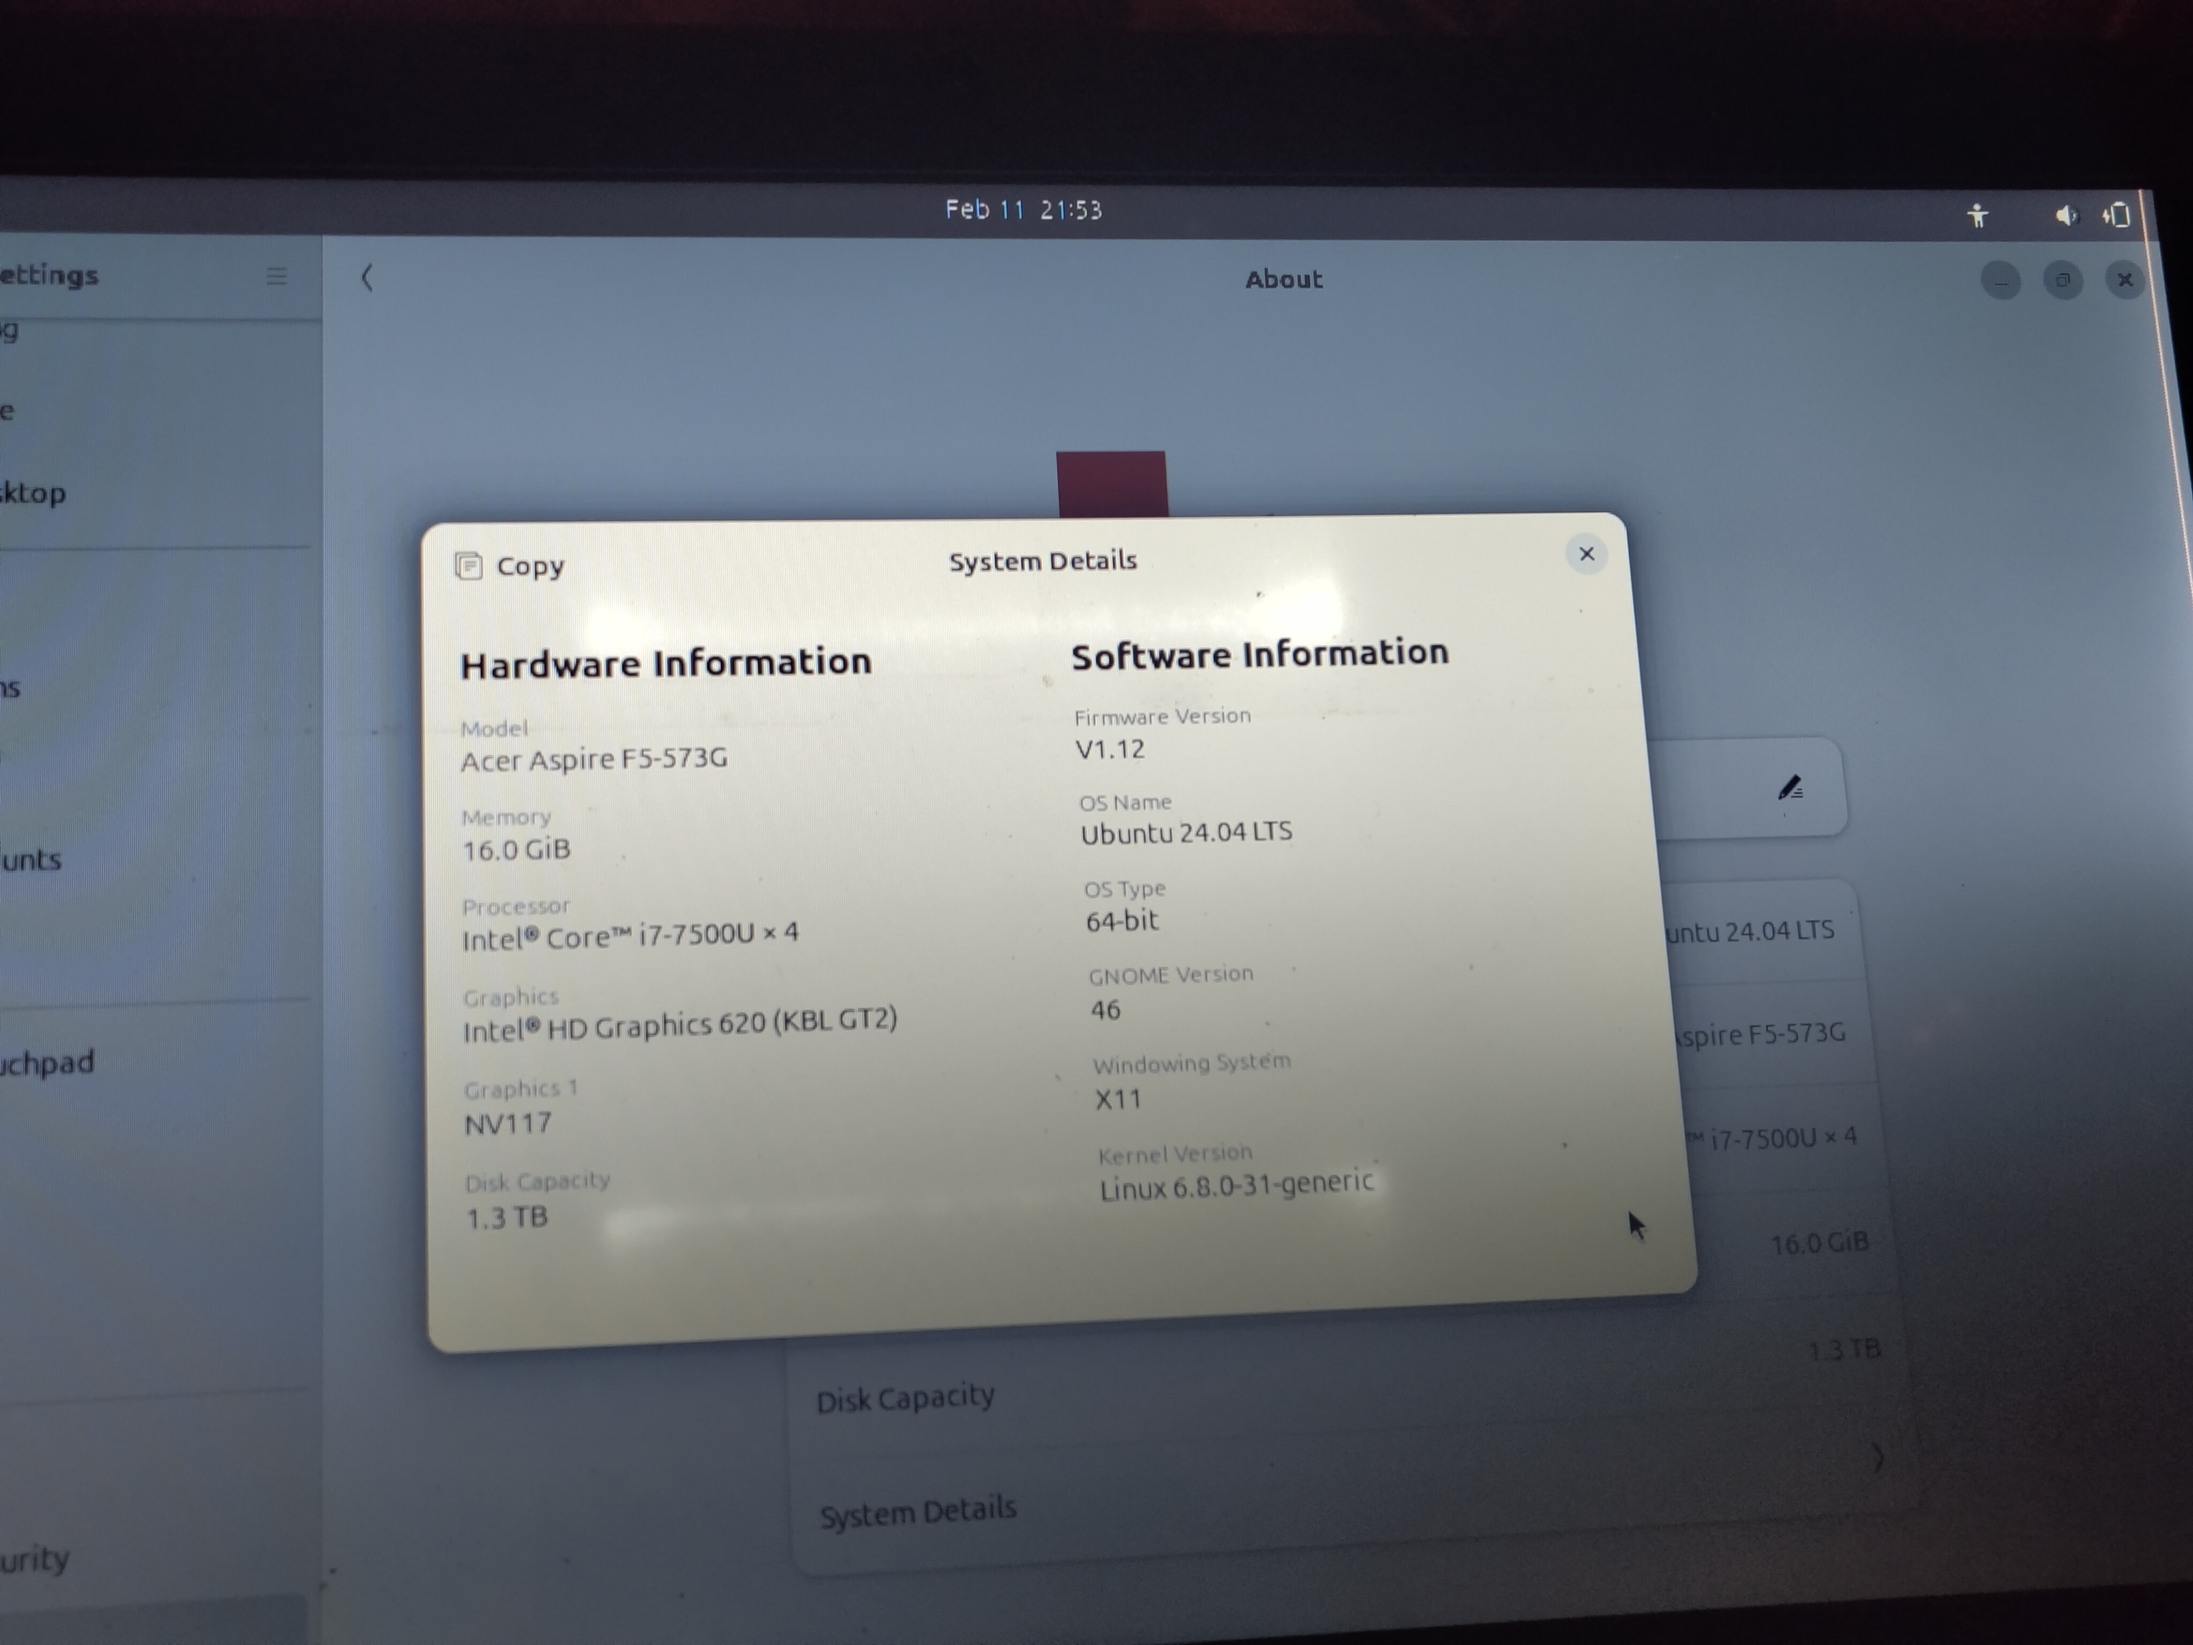
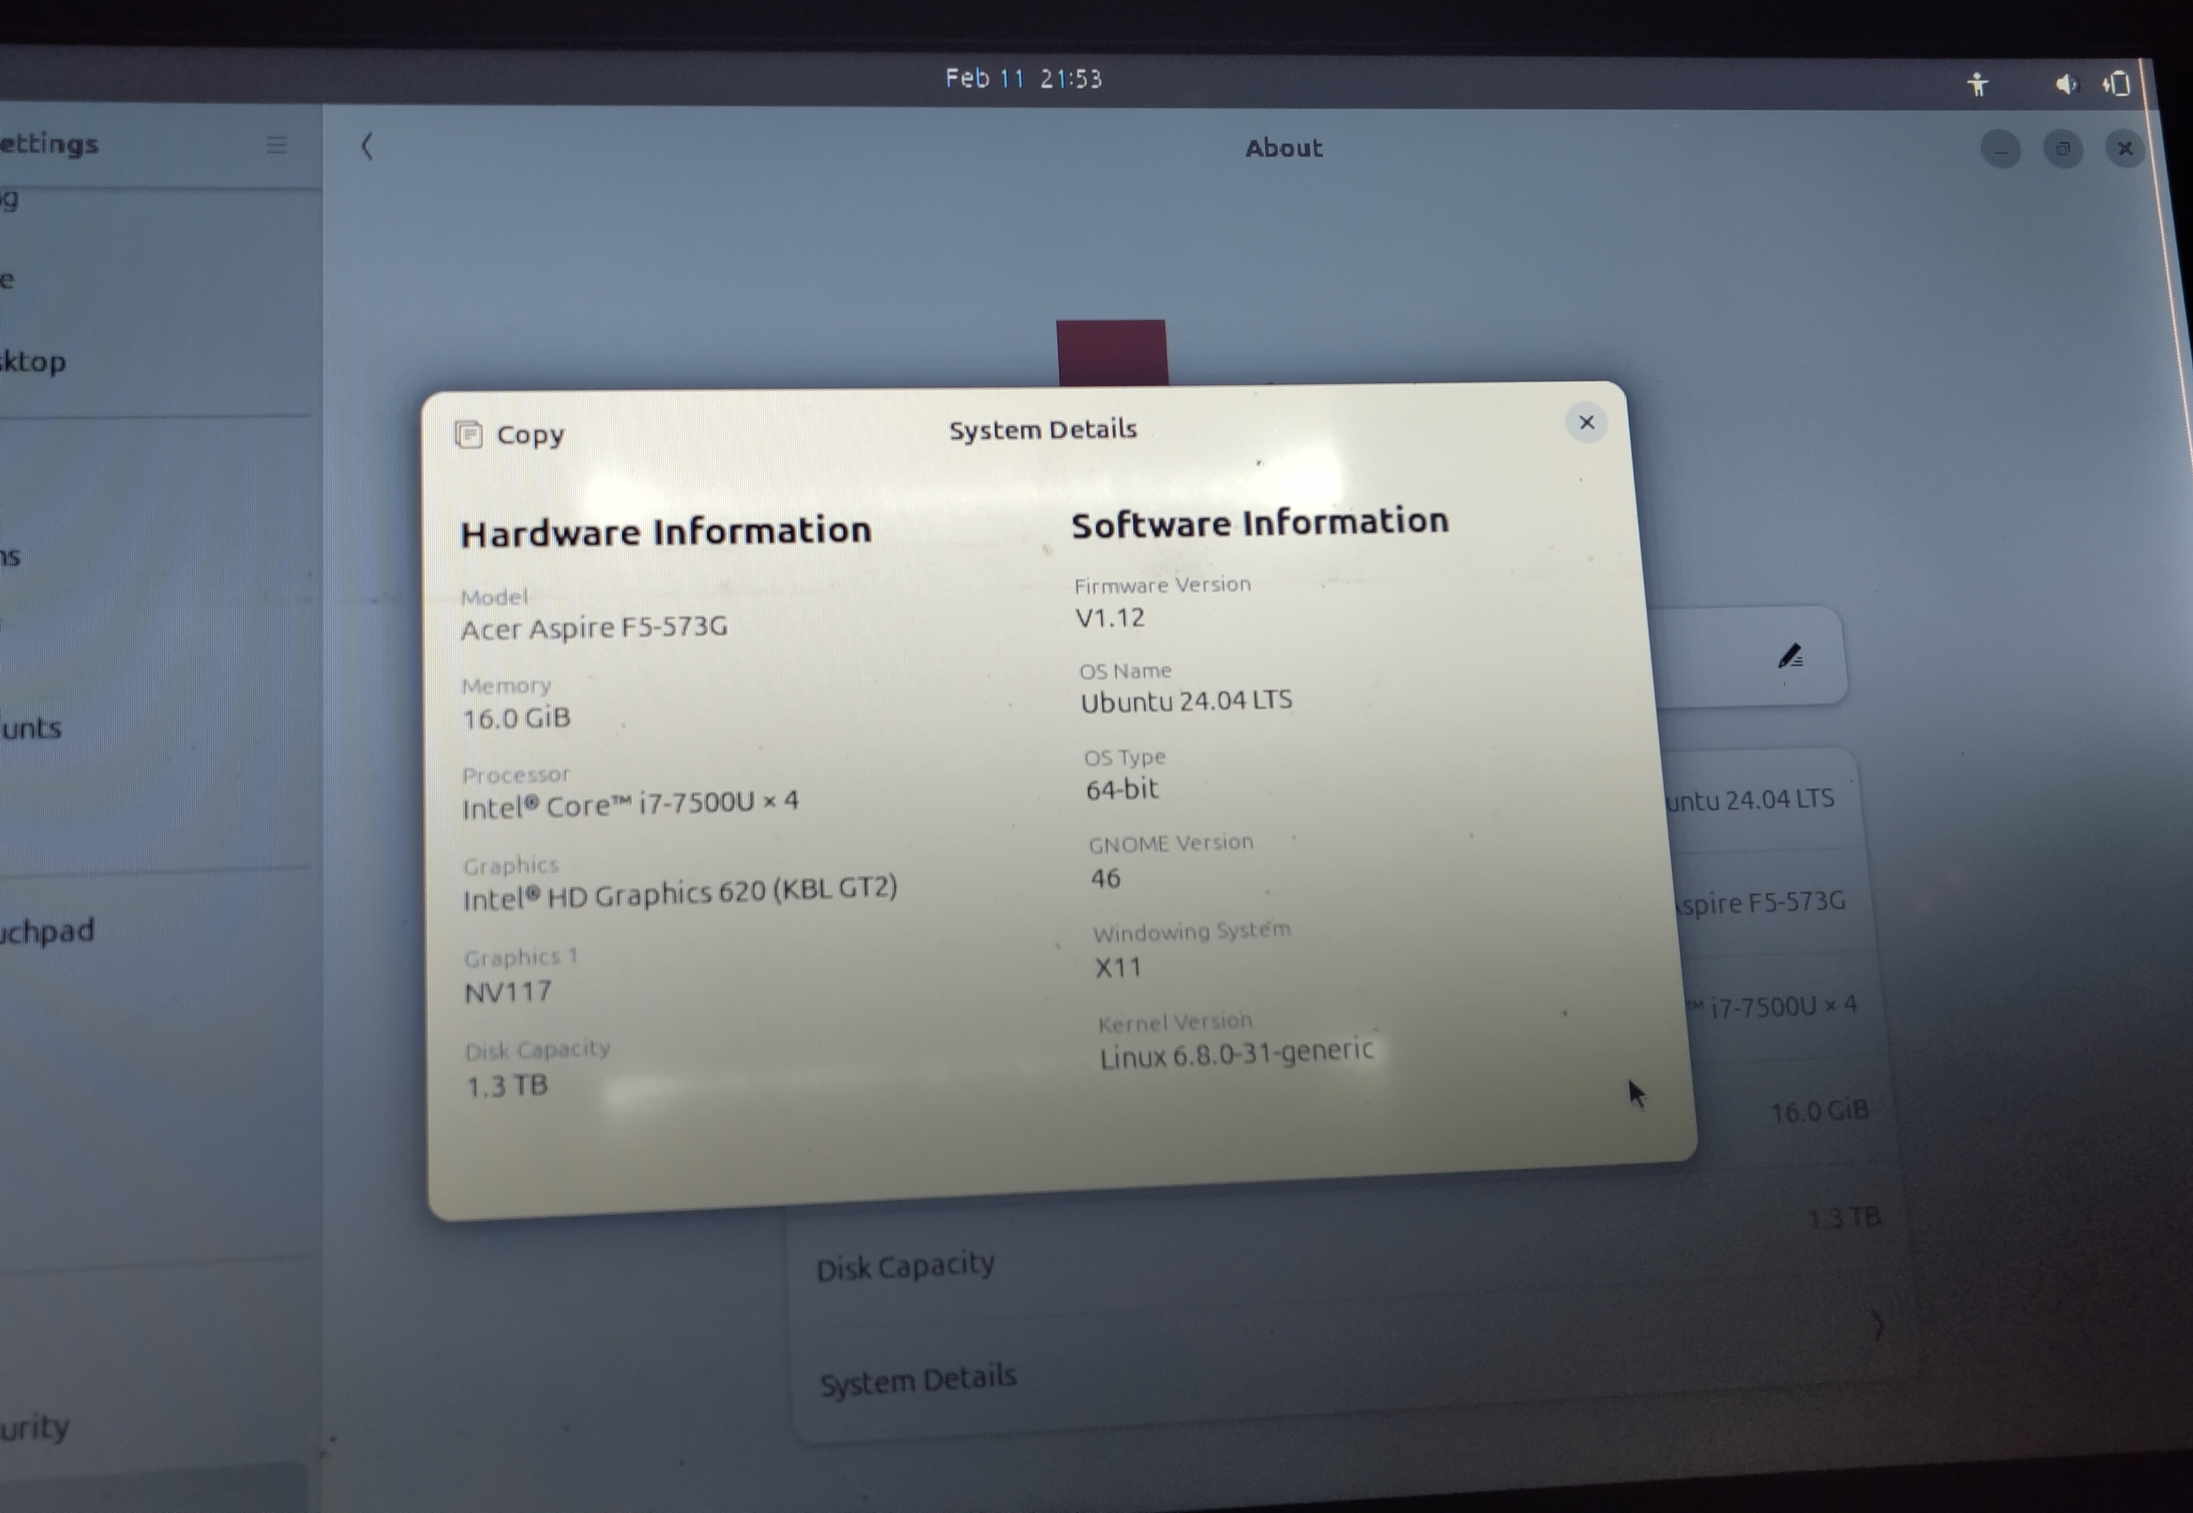
feat(all): switch to nojs theme, add placeholder pages

diff --git a/TODO.md b/TODO.md
@@ -49,6 +49,7 @@
 - <https://github.com/mrmierzejewski/hugo-theme-console>
   - Based on the console CSS framework
   - Can use this as a model for making a hugo site based off the CSS frameworks below
+  - Good figcaption shortcut thingy for markdown images
 - <https://gitlab.com/andy.sb/nojs>
 
 ### CSS Frameworks

diff --git a/content/_index.md b/content/_index.md
@@ -1,0 +1,3 @@
+Hi 🧙♂
+
+<!-- TODO link to Hugo theme used -->

diff --git a/content/sites/_index.md b/content/sites/_index.md
@@ -1,0 +1,1 @@
+Cool sites here 👇
